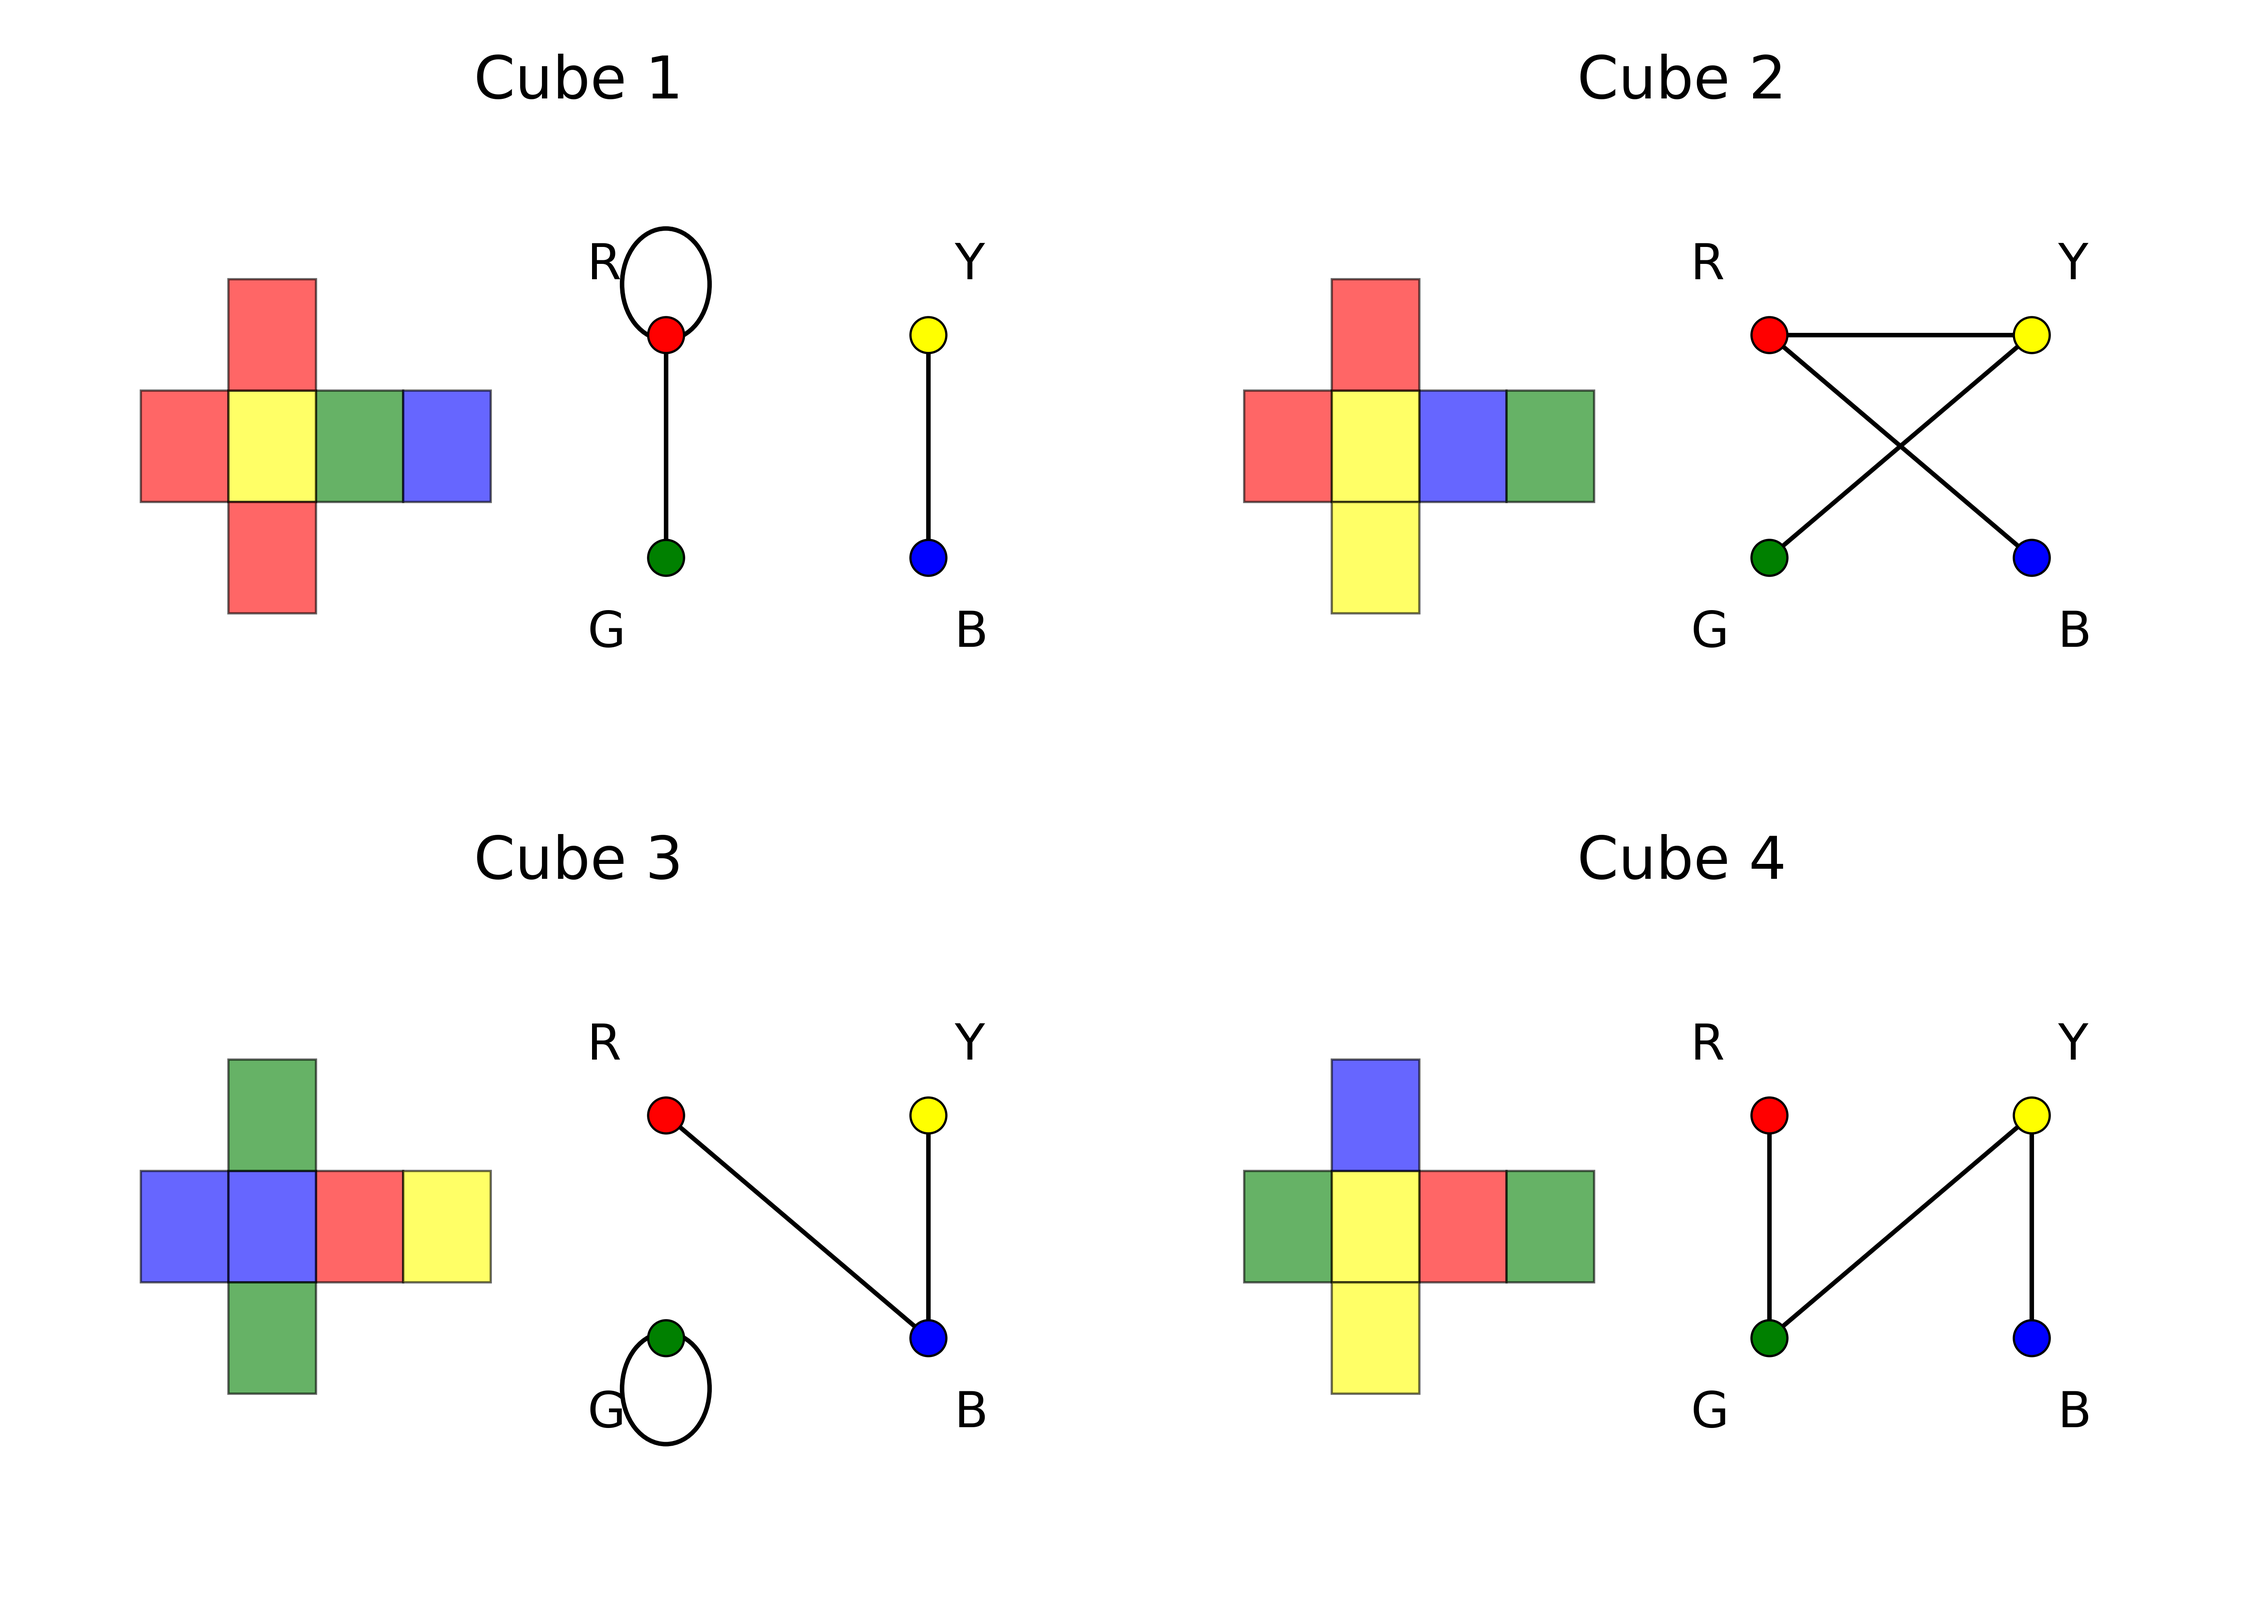
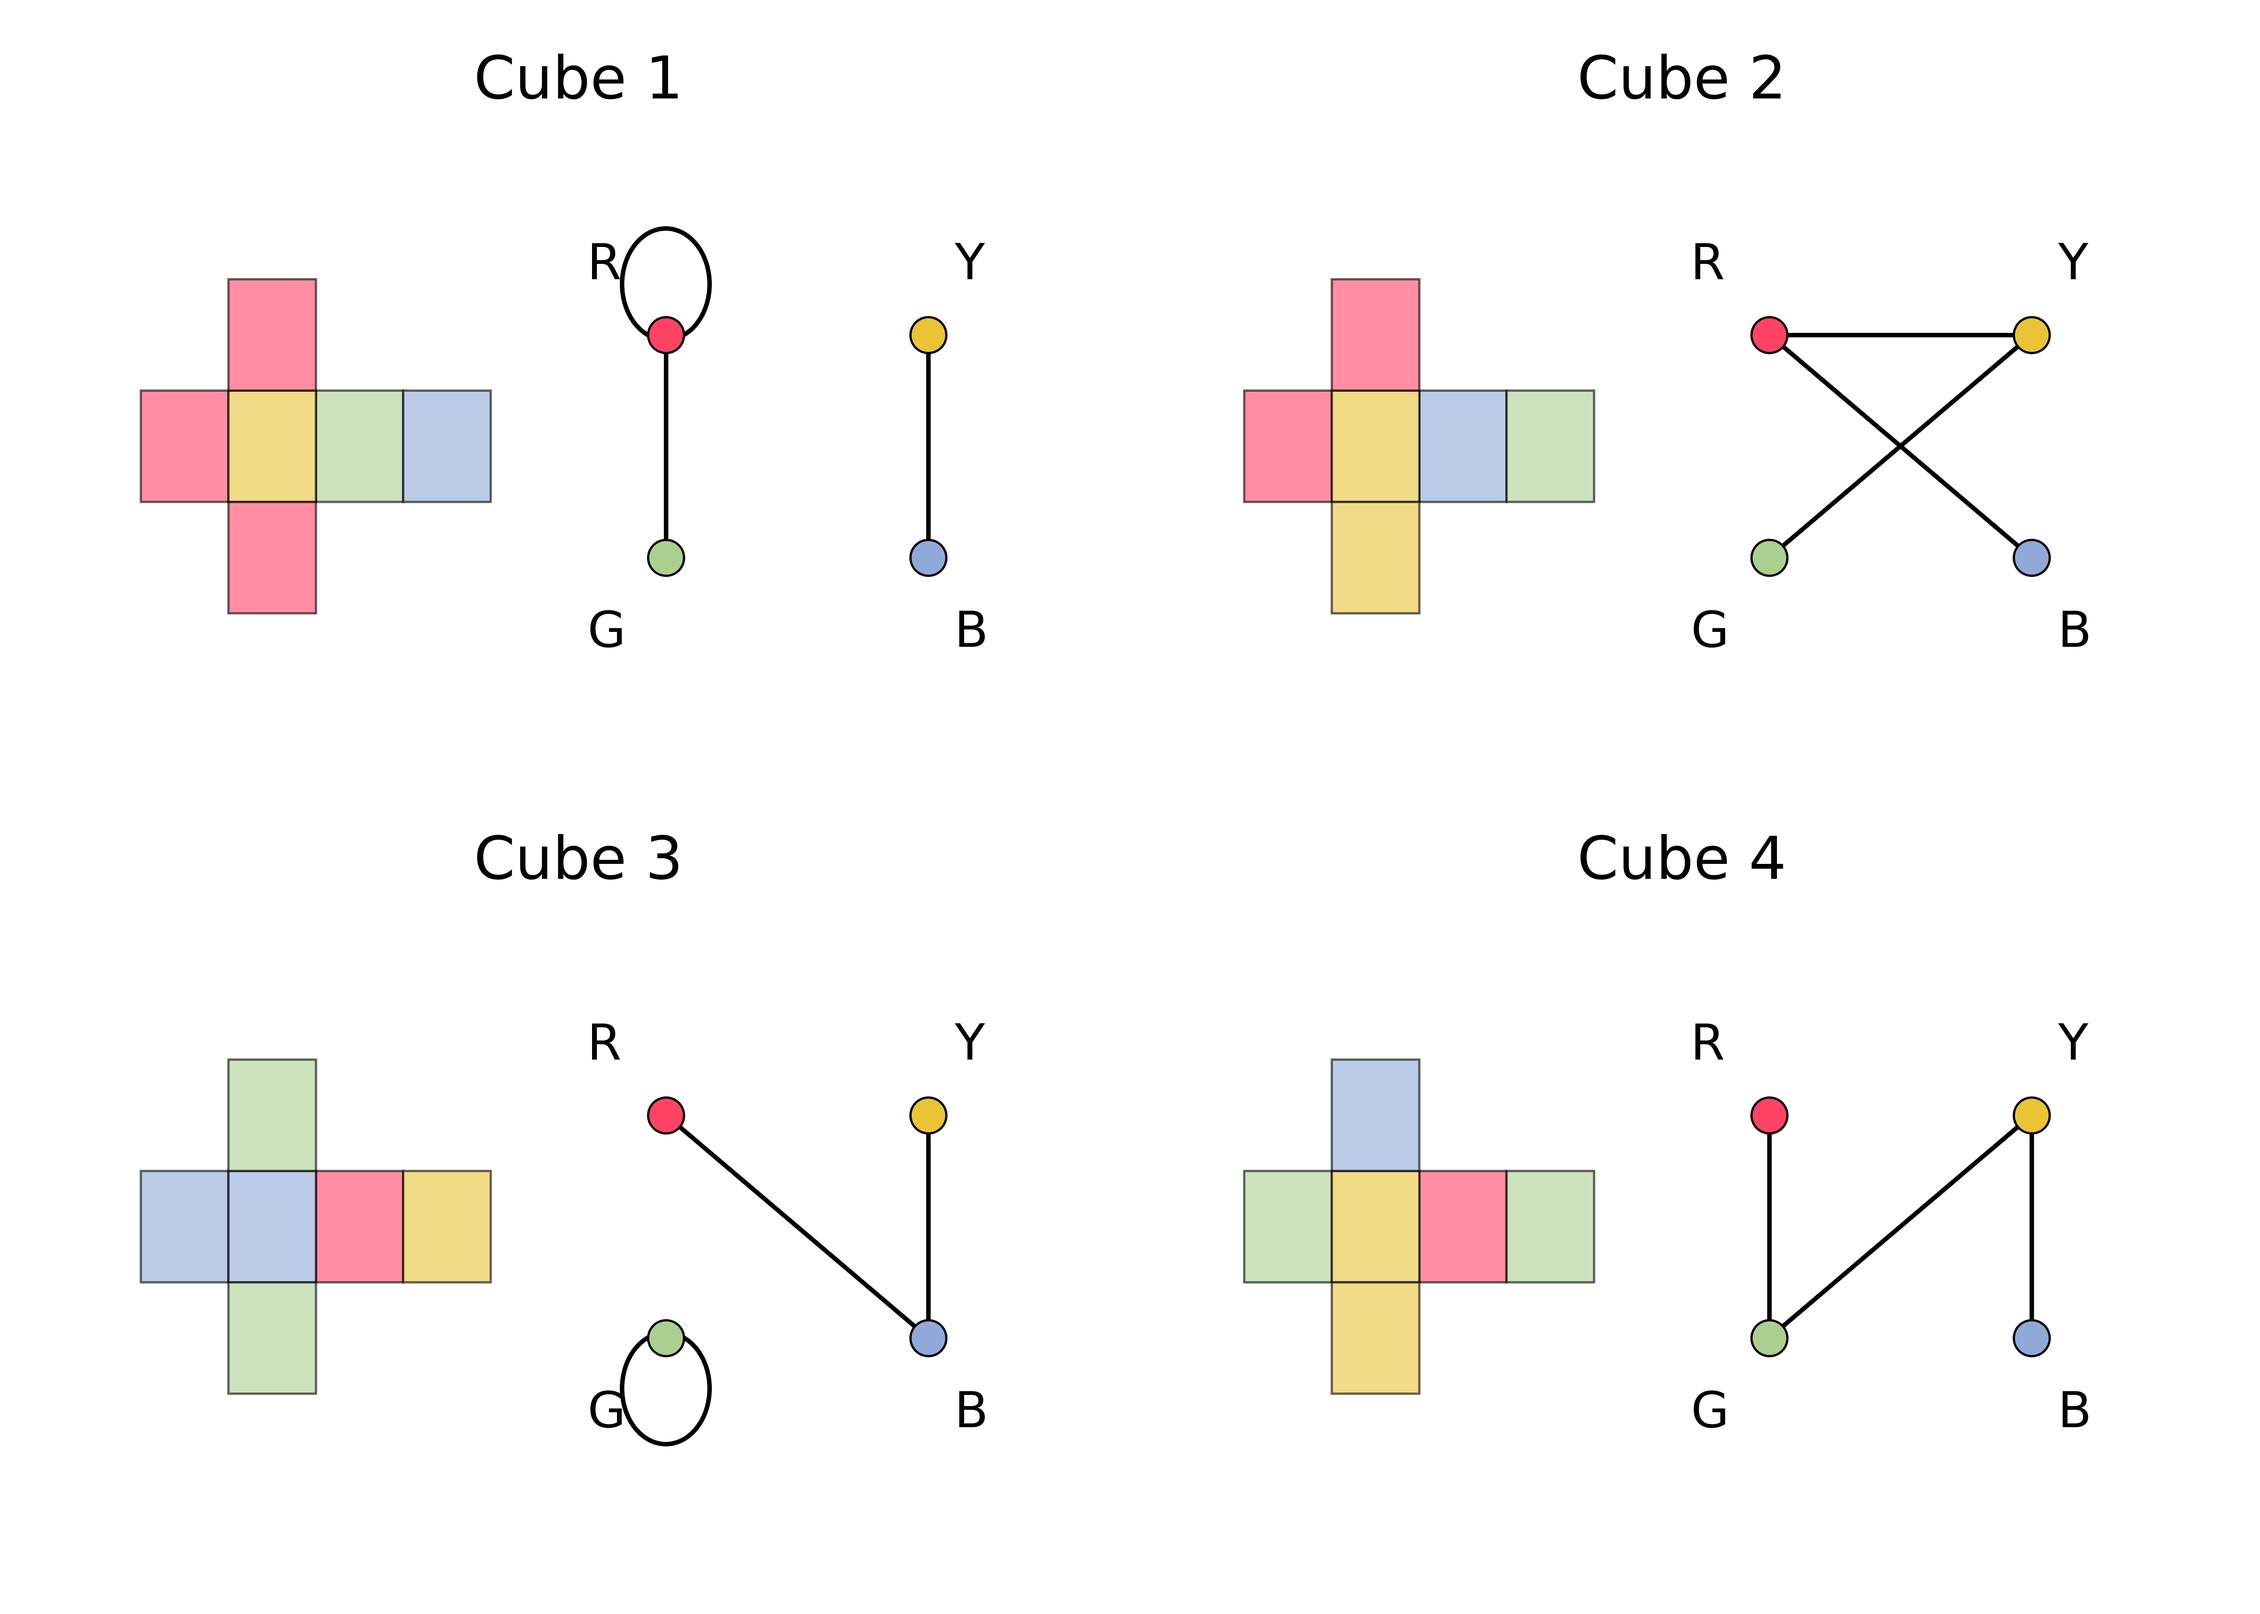
added instant insanity constraint checking

diff --git a/instantinsanity.py b/instantinsanity.py
@@ -28,19 +28,6 @@ def sumToN2(neighbor, target, Q, scale=1):
                 Q[term] = weight * scale
 
 
-# sum xi * xj, where xi in neighbor and i != j, has minimum when at most one xi = 0
-def sumLessOne(neighbor, Q, scale=1):
-
-    for ele1 in neighbor:
-        for ele2 in neighbor:
-            term = (ele1, ele2)
-            if ele1 < ele2:
-                if term in Q:
-                    Q[term] += scale
-                else:
-                    Q[term] = scale
-
-
 # including an edge should force inclusion of vertices
 def edge_vertex_inclusion(edge, vertices, Q, scale=1):
 
@@ -61,12 +48,11 @@ def ab_exclusion(n, Q, w_ab=1):
         for j in range(0, 2 * n_edges, 2):
 
             idx = j + i * offset
-            terms = [(idx, idx + 1), (idx + 1, idx)]
-            for term in terms:
-                if term in Q:
-                    Q[term] += w_ab
-                else:
-                    Q[term] = w_ab
+            term = (idx, idx + 1)
+            if term in Q:
+                Q[term] += w_ab
+            else:
+                Q[term] = w_ab
 
 
 def plot_problem(cubes, edges):
@@ -78,7 +64,7 @@ def plot_problem(cubes, edges):
     x_min = 6
     y_min = 2.5
     y_max = 4.5
-    colours = {'r': (x_min, y_max, '#ff0000'), 'g': (x_min, y_min, '#008000'), 'b': (x_max, y_min, '#0000ff'), 'y': (x_max, y_max, '#ffff00')}
+    colours = {'r': (x_min, y_max, '#FF4365'), 'g': (x_min, y_min, '#AACF90'), 'b': (x_max, y_min, '#8FAAD9'), 'y': (x_max, y_max, '#EAC435')}
     off = 0.3
     annotes = {'r': (6 - 3*off, 5), 'g': (6 - 3*off, 2 - off), 'b': (9 + off, 2 - off), 'y': (9 + off, 5)}
 
@@ -117,12 +103,12 @@ def plot_problem(cubes, edges):
     return fig1, axs1
 
 
-def plot_solution(soln, cubes, edge_map):
+def plot_solution(soln):
 
     lims = (0, 3, 2.5, 4.5)
     (x_min, x_max, y_min, y_max) = lims
     off = 0.3
-    colours = {'r': (x_min, y_max, '#ff0000'), 'g': (x_min, y_min, '#008000'), 'b': (x_max, y_min, '#0000ff'), 'y': (x_max, y_max, '#ffff00')}
+    colours = {'r': (x_min, y_max, '#FF4365'), 'g': (x_min, y_min, '#AACF90'), 'b': (x_max, y_min, '#8FAAD9'), 'y': (x_max, y_max, '#EAC435')}
     annotes = {'r': (x_min - 2 * off, y_max), 'g': (x_min - 2 * off, y_min - off), 'b': (x_max + off, y_min - off), 'y': (x_max + off, y_max)}
 
     edge_idxs = np.where(soln == 1)[0]
@@ -138,8 +124,8 @@ def plot_solution(soln, cubes, edge_map):
     fig2, axs2 = plt.subplots(1, 2, figsize=(20, 6))
 
     for idx in edge_idxs:
-        cube = cubes[edge_map[idx][0]]
-        edge = edge_map[idx][1]
+        cube = cubes[edge_mappings[idx][0]]
+        edge = edge_mappings[idx][1]
         (c1, c2) = (cube[edge[0]], cube[edge[1]])
         if idx % 2 == 0:
             if (c1 not in left and c2 not in right) or len(left) == 0:
@@ -149,9 +135,11 @@ def plot_solution(soln, cubes, edge_map):
                 left.append(c2)
                 right.append(c1)
             else:
-                print('Colour violation.')
-                return edge_map[idx][0]
-            graph_plot(axs2[0], c1, c2, lims=lims, lbl_edge=str(edge_map[idx][0] + 1))
+                left.append(c2)
+                right.append(c1)
+                print('Solution is incorrect.')
+                #return edge_mappings[idx][0], None, None, None
+            graph_plot(axs2[0], c1, c2, lims=lims, lbl_edge=str(edge_mappings[idx][0] + 1))
         else:
             if (c1 not in back and c2 not in front) or len(back) == 0:
                 back.append(c1)
@@ -160,9 +148,11 @@ def plot_solution(soln, cubes, edge_map):
                 back.append(c2)
                 front.append(c1)
             else:
-                print('Colour violation.')
-                return edge_map[idx][0]
-            graph_plot(axs2[1], c1, c2, lims=lims, lbl_edge=str(edge_map[idx][0] + 1))
+                back.append(c2)
+                front.append(c1)
+                print('Solution is incorrect.')
+                #return edge_mappings[idx][0], None, None, None
+            graph_plot(axs2[1], c1, c2, lims=lims, lbl_edge=str(edge_mappings[idx][0] + 1))
 
     lbls = ['Subgraph A - Left/Right', 'Subgraph B - Front/Back']
     for i, ax in enumerate(axs2):
@@ -217,8 +207,8 @@ def graph_plot(axes, e1, e2, lims=(6, 9, 2.5, 4.5), lbl_edge=None):
 
     (x_min, x_max, y_min, y_max) = lims
 
-    colours = {'r': (x_min, y_max, '#ff0000'), 'g': (x_min, y_min, '#008000'), 'b': (x_max, y_min, '#0000ff'),
-               'y': (x_max, y_max, '#ffff00')}
+    colours = {'r': (x_min, y_max, '#FF4365'), 'g': (x_min, y_min, '#AACF90'), 'b': (x_max, y_min, '#8FAAD9'),
+               'y': (x_max, y_max, '#EAC435')}
     (x1, y1, _) = colours[e1]
     (x2, y2, _) = colours[e2]
     if e1 == e2:  # edge from node to itself
@@ -237,7 +227,7 @@ def graph_plot(axes, e1, e2, lims=(6, 9, 2.5, 4.5), lbl_edge=None):
         loop = Circle(center, r, facecolor=None, lw=2, fill=False, edgecolor='k', zorder=0.1)
         axes.add_patch(loop)
         if lbl_edge:
-            axes.annotate(lbl_edge, xy)
+            axes.annotate(lbl_edge, (center[0] - 1.1 * r, center[1]))
     else:
         x = [x1, x2]
         y = [y1, y2]
@@ -254,16 +244,71 @@ def graph_plot(axes, e1, e2, lims=(6, 9, 2.5, 4.5), lbl_edge=None):
 
     return axes
 
+
+def check_constraints(proposal):
+    """
+    Given a solution (array of binary variables), returns dictionary containing counts of constraint violations
+    :param proposal: array of binary variables proposed as a solution to the problem instance
+    :return violations: dictionary containing constraint violation counts
+    """
+
+    violations = {}
+    proposal_2D = proposal.reshape((n, offset))
+    edges_r = proposal_2D[:, 0:6]
+    colours_r = proposal_2D[:, 6:]
+    colour_counts = np.zeros(proposal.shape)
+
+    # edge/colour indices for subgraphs
+    Ae = np.arange(0, n_sides, 2)
+    Be = np.arange(1, n_sides, 2)
+
+    # subgraph arrays
+    subgraphAe = proposal_2D[:, Ae]
+    subgraphBe = proposal_2D[:, Be]
+
+    # edge in subgraph A should exclude it from subgraph B
+    ab_count = np.count_nonzero((subgraphAe * subgraphBe))
+    violations['total'] = ab_count
+    violations['A/B exclusion'] = ab_count
+
+    # edge inclusion implies vertex inclusion
+    in_count = 0
+    for edge_idx in edge_mappings.keys():
+        if proposal[edge_idx]:
+            c_idxs = edge_mappings[edge_idx][2]
+            for c_idx in c_idxs:
+                colour_counts[c_idx] += proposal[c_idx]
+            in_count += np.count_nonzero((proposal[c_idxs] != 1))
+    violations['total'] += in_count
+    violations['edge/vertex inclusion'] = in_count
+
+    # each subgraph has all four colours each with degree 2
+    colour_counts = colour_counts.reshape((n, offset))[:, 6:]
+    c_count = np.count_nonzero((np.sum(colour_counts, axis=0) != 2))
+    violations['total'] += c_count
+    violations['colour'] = c_count
+
+    # one and only one edge from each cube in a subgraph
+    e_count = np.count_nonzero((np.sum(subgraphAe, axis=1) != 1)) + np.count_nonzero((np.sum(subgraphAe, axis=1) != 1))
+    violations['total'] += e_count
+    violations['edge'] = e_count
+
+
+
+    # plot solution if problem instance has n = 4, and no violations
+    soln = np.concatenate((edges_r, colours_r * 0), axis=1).flatten()
+    if n == 4 and violations['total'] == 0:
+        _, _, _, _ = plot_solution(soln)
+
+    return violations
+
+
 if __name__ == "__main__":
 
     # initialize qubo problem
     Q = {}
 
     plt.rcParams.update({'font.size': 22})
-
-    # use qpu or not
-    use_qpu = False
-    use_best = True
 
     # Define problem
     n = 4  # number of cubes/colours
@@ -286,8 +331,12 @@ if __name__ == "__main__":
     cube3 = {'left': 'g', 'right': 'r', 'back': 'g', 'front': 'y', 'bottom': 'y', 'top': 'b'}
     edge_mappings = {}
     cubes = [cube0, cube1, cube2, cube3]
-    if n == 4:
+    if n == 3:
         _, _ = plot_problem(cubes, edges)
+
+    # use qpu or not
+    use_qpu = False
+    use_best = True
 
     if use_qpu or not use_best:
         # penalty weights
@@ -295,6 +344,7 @@ if __name__ == "__main__":
         w_ab = 5000  # edge in subgraph A should exclude it from subgraph B, classical = 1000
         w_colour = 190  # each subgraph has all four colours, classical = 100
         w_cube = 4500  # one and only one edge from each cube in a subgraph, classical = 200
+        (w_ve, w_ab, w_colour, w_cube) = (-500, 1000, 100, 400)
     else:
         (w_ve, w_ab, w_colour, w_cube) = (-100, 1000, 100, 200)
 
@@ -308,13 +358,13 @@ if __name__ == "__main__":
             edge_idx = 2 * j + i * offset # index of the current edge node (for subgraph A i.e. even indices)
             vertices = np.array([n_sides + 2 * colours[cube[v]] + i * offset for v in edge])
             edge_vertex_inclusion(edge_idx, vertices, Q, scale=w_ve)
-            edge_mappings[edge_idx] = [i, edge, vertices]
+            edge_mappings[edge_idx] = [i, edge, np.copy(vertices)]
 
             # subgraph B - just odd indices i.e. increment by 1
             edge_idx += 1
             vertices += 1
             edge_vertex_inclusion(edge_idx, vertices, Q, scale=w_ve)
-            edge_mappings[edge_idx] = [i, edge, vertices]
+            edge_mappings[edge_idx] = [i, edge, np.copy(vertices)]
 
     # biases are zero
     for i in range(n_bits):
@@ -356,28 +406,31 @@ if __name__ == "__main__":
 
     if use_qpu:
         print('Sampling with QPU...')
-        res = EmbeddingComposite(DWaveSampler()).sample_qubo(Q, num_reads=100)
+        res = EmbeddingComposite(DWaveSampler()).sample_qubo(Q, num_reads=50)
     else:
         print('Sampling with classical solver...')
-        res = QBSolv().sample_qubo(Q, num_repeats=1000)
+        res = QBSolv().sample_qubo(Q, num_repeats=100)
 
     # check constraints
     samples = list(res.samples())
     energy = list(res.data_vectors['energy'])
     result = res.first
     min_energy = result.energy
-    result = np.array([result.sample[key] for key in result.sample.keys()])
-    result = result.reshape((n, offset))
-    edges_r = result[:, 0:6]
-    colours_r = result[:, 6:]
-    soln = np.concatenate((edges_r, colours_r * 0), axis=1).flatten()
-    if n == 4:
-        _, _, _, _ = plot_solution(soln, cubes, edge_mappings)
-    print(edges_r)
-    print(colours_r)
+    result_arr = np.array([result.sample[key] for key in result.sample.keys()])
+    violations = check_constraints(result_arr)
+    print('Minimum Energy = {}'.format(min_energy))
+    print(violations)
 
-
-
-
+    # for sample in samples:
+    #     sample_arr = sample
+    i = 0
+    n_print = 10
+    for sample in res.data(fields=['sample', 'energy'], sorted_by='energy'):
+        if i < n_print:
+            sample_arr = np.array([sample.sample[key] for key in sample.sample.keys()])
+            violations = check_constraints(sample_arr)
+            print('Energy = {}'.format(sample.energy))
+            print(violations)
+        i += 1
 
 
